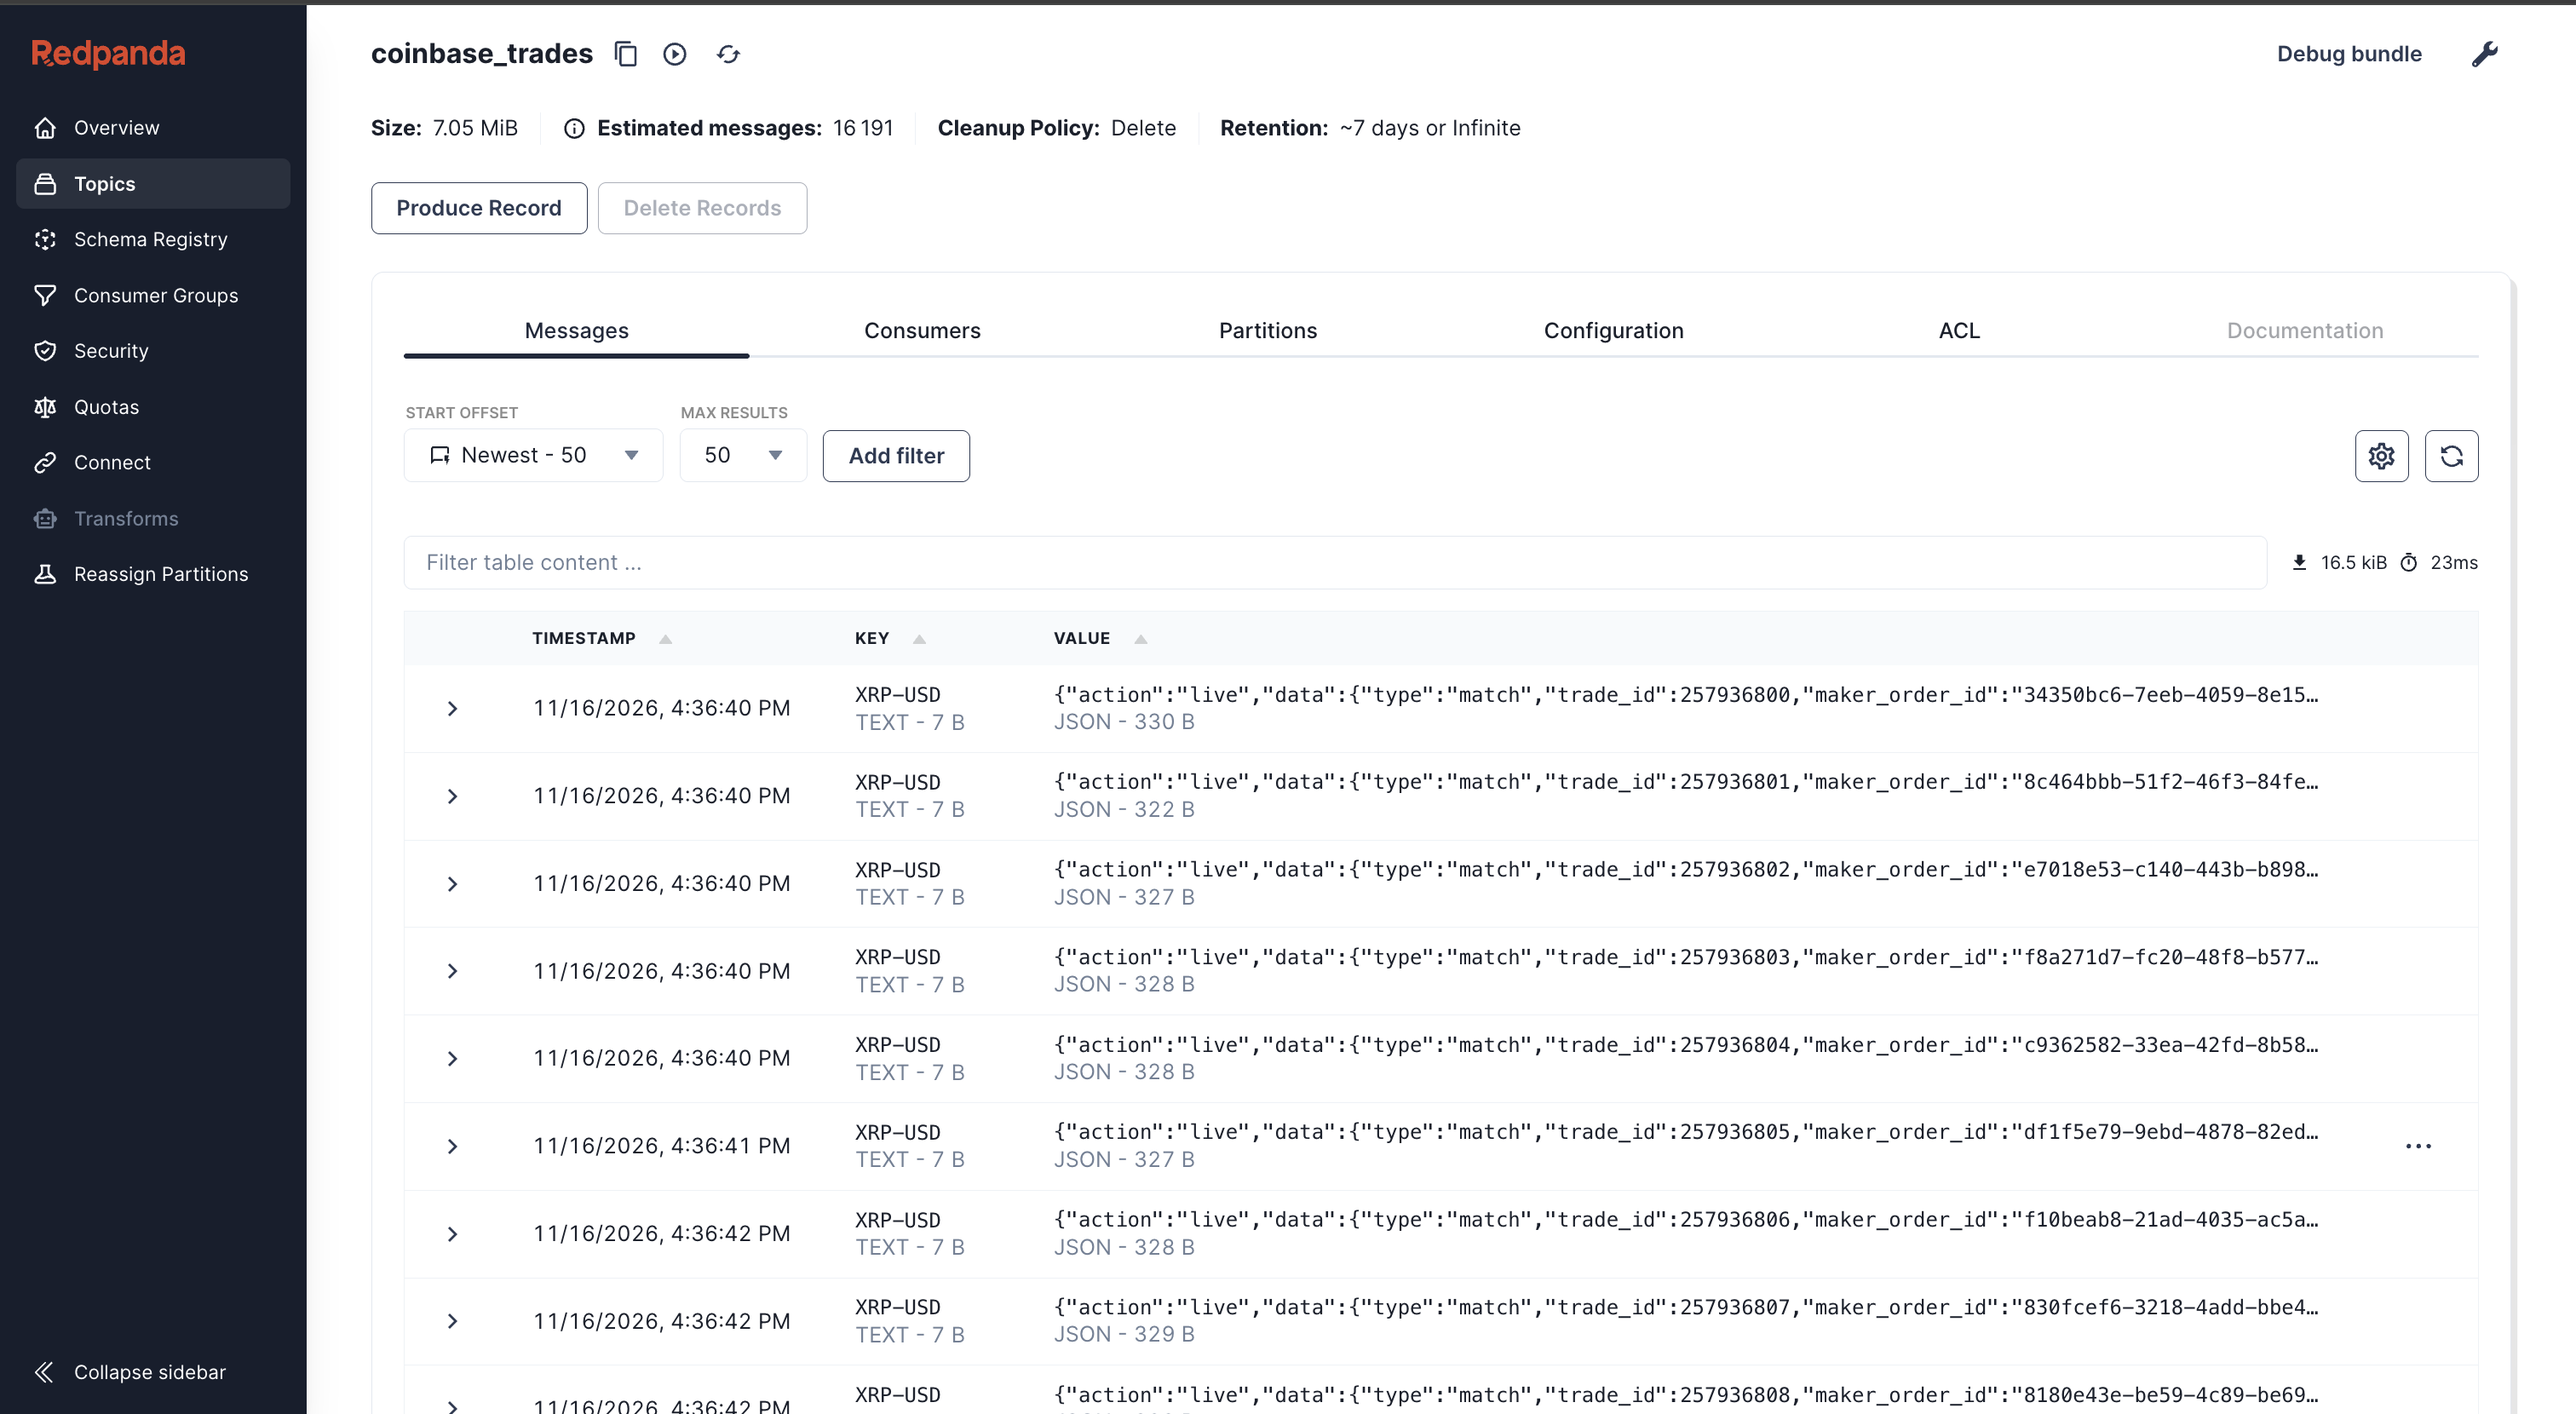
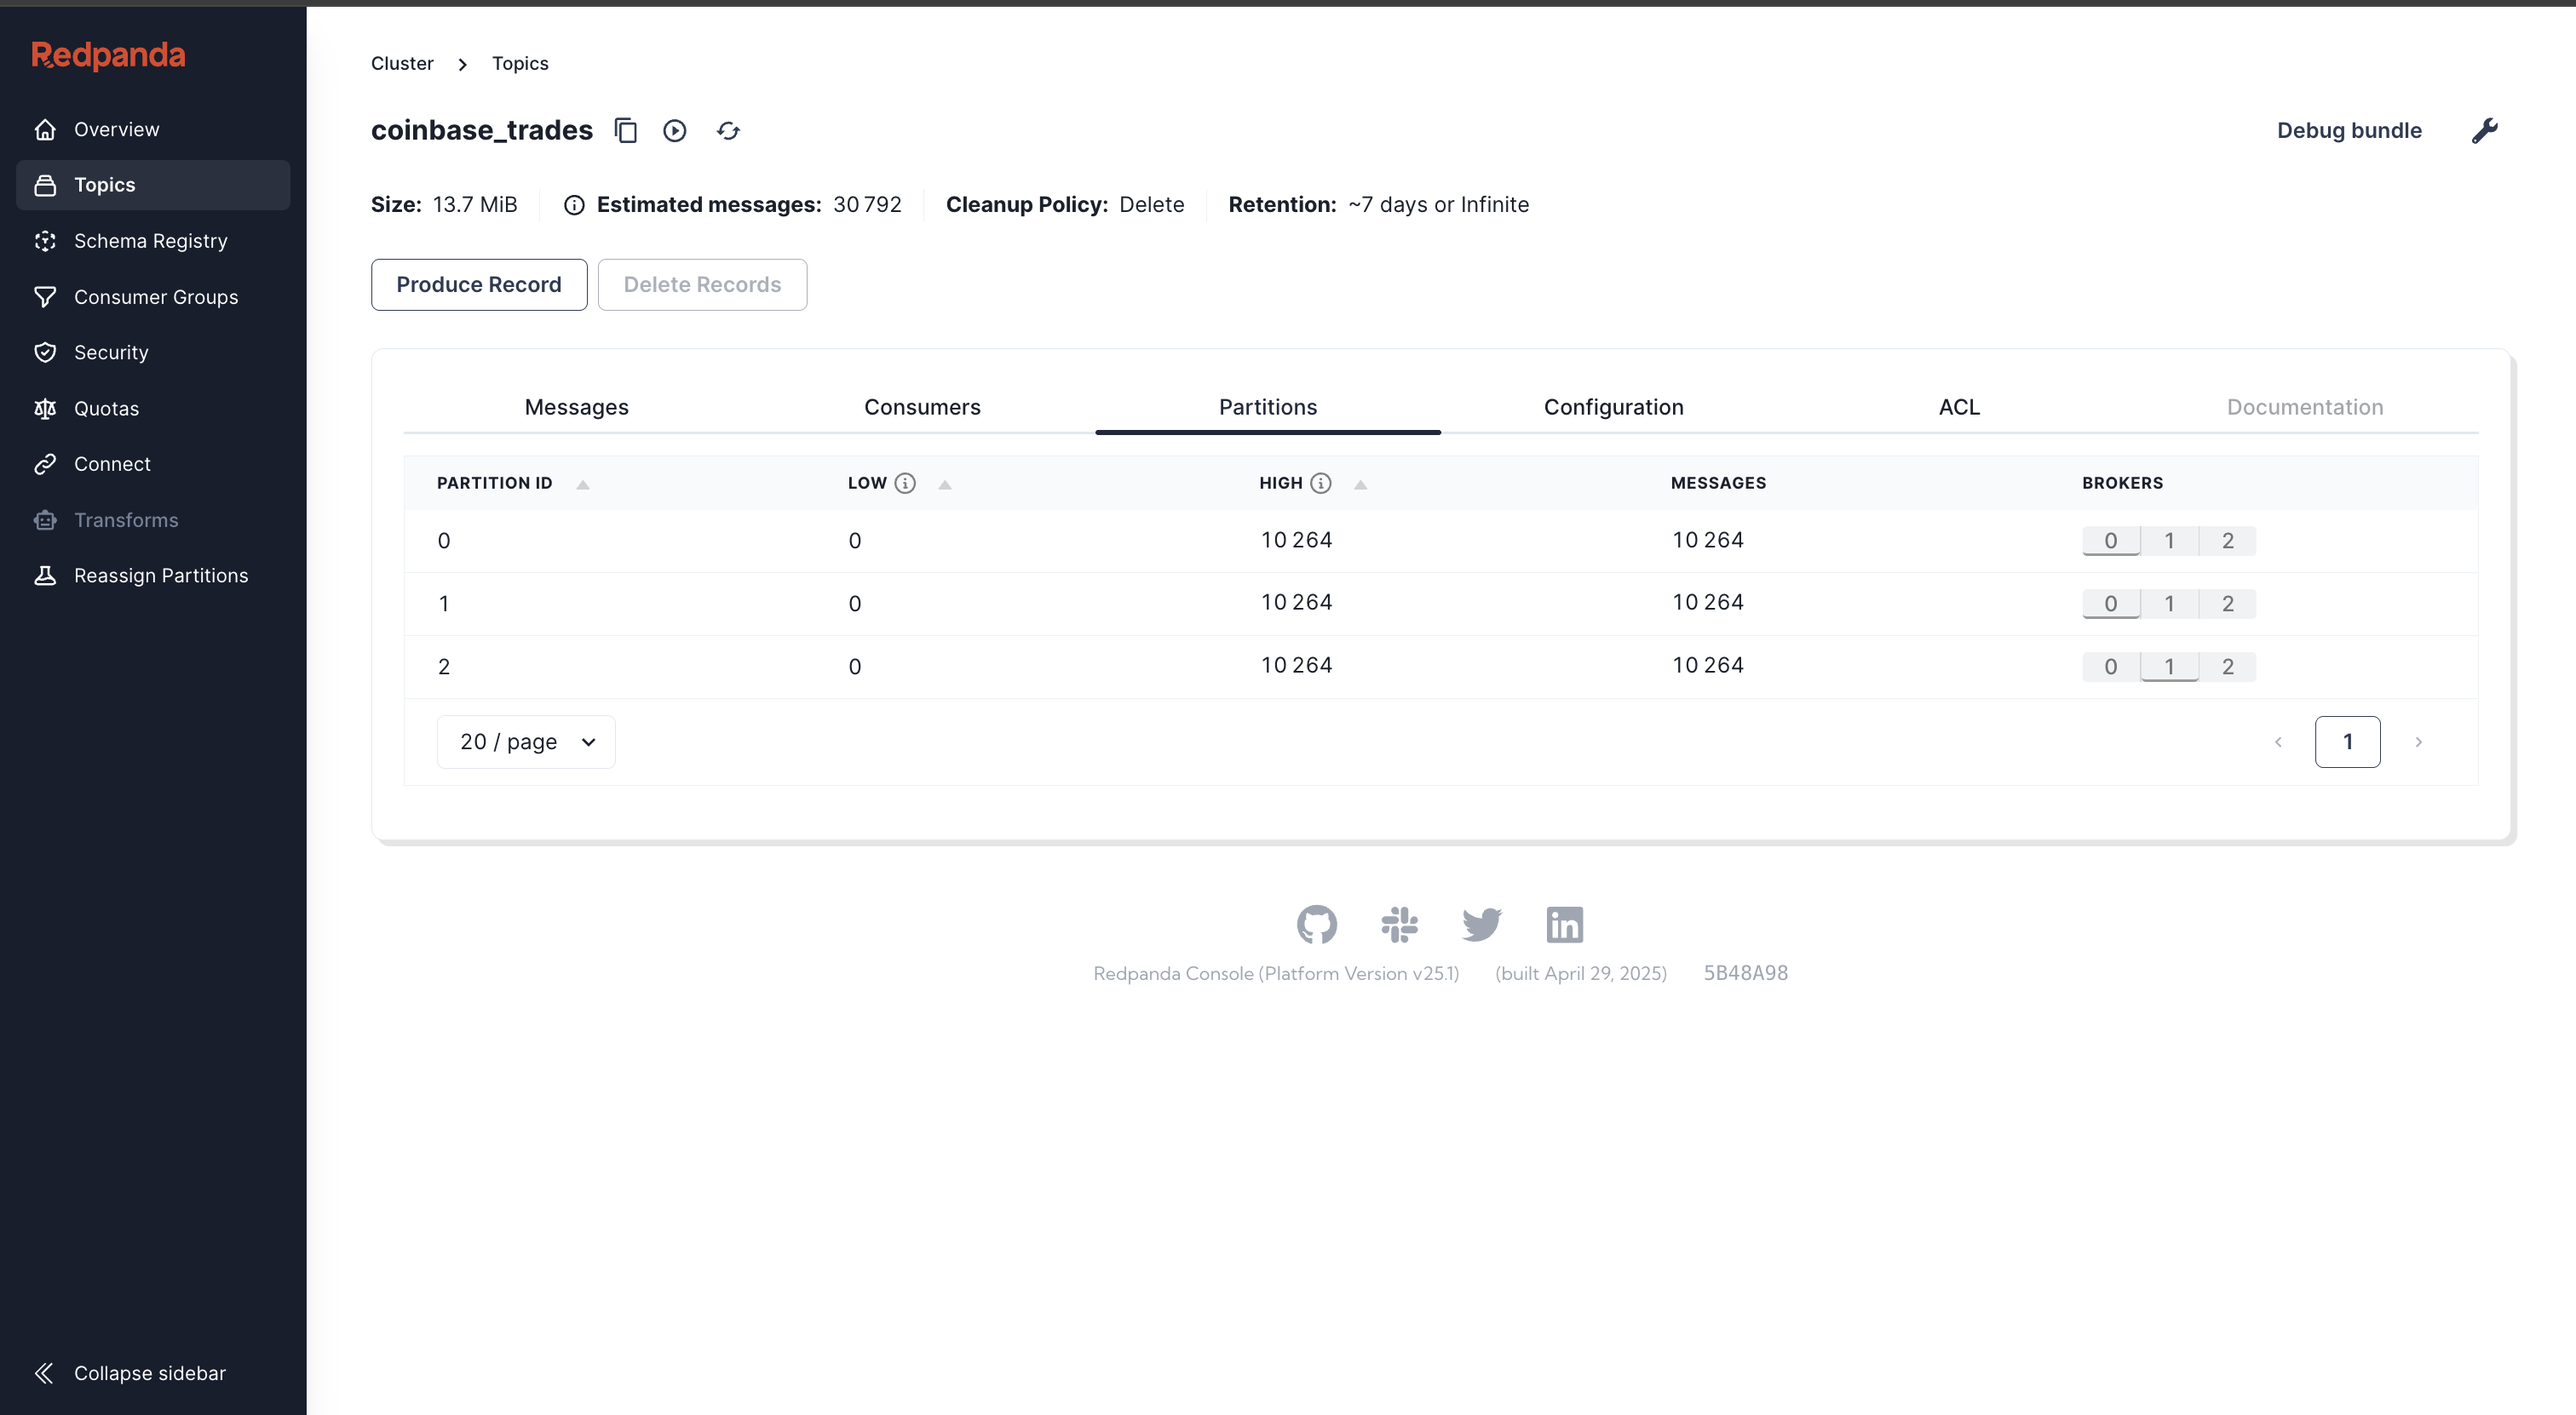
producer lander and topic

diff --git a/project3/docs/numbers_log.md b/project3/docs/numbers_log.md
@@ -1,0 +1,27 @@
+# Numbers log (evidence for the README)
+
+Raw numbers as I measured them, in order. The README quotes from here.
+
+## Probes (Wed 11 Nov)
+- Coinbase: 706 messages in 60 s = 11.77/s, 0 not JSON, 50,000 in ~71 min
+- Bluesky: 3,324 messages in 60 s = 55.38/s, 0 not JSON, 50,000 in ~15 min
+
+## Topic coinbase_trades (Mon 16 Nov, ~16:41, producer and lander running since ~16:34)
+`rpk topic describe coinbase_trades -p`
+
+| Partition | Leader | Epoch | High watermark |
+|---|---|---|---|
+| 0 | 0 | 1 | 12,726 |
+| 1 | 0 | 2 | 879 |
+| 2 | 1 | 2 | 2,665 |
+| **Total** | | | **16,270** |
+
+- Partition 0 holds ~78% (BTC-USD and ADA-USD hash there; BTC trades most). Partition 1 holds only XRP-USD.
+- Note: the Redpanda Console showed 10,264 in every partition (30,792 total): a display bug. rpk is correct.
+- First landed batches: 1,993 match, 6 last_match, 1 subscriptions (no product_id, sent without key), 0 malformed.
+
+## Four numbers (four_numbers.py)
+| When | raw | malformed | unique Kafka records | unique product_id+trade_id |
+|---|---|---|---|---|
+
+## Chaos round
